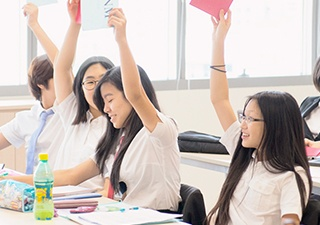
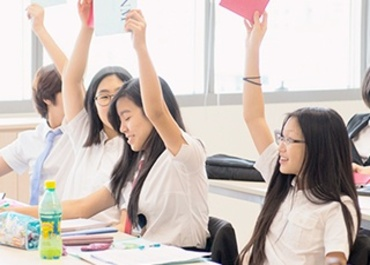
Update 4.24
Updated banner photos

diff --git a/events.html b/events.html
@@ -4,24 +4,24 @@
         <!-- Required meta tags -->
         <meta charset="utf-8">
         <meta name="viewport" content="width=device-width, initial-scale=1">
-    
+
         <!-- Favicon -->
         <link rel="shortcut icon" href="assets/favicon.ico" type="image/x-icon">
-    
+
         <!-- Assistant Font -->
         <link rel="preconnect" href="https://fonts.googleapis.com">
         <link rel="preconnect" href="https://fonts.gstatic.com" crossorigin>
         <link href="https://fonts.googleapis.com/css2?family=Assistant:wght@200;300;400;500;600;700;800&display=swap" rel="stylesheet">
-    
+
         <!-- Awesome Font -->
         <link rel="stylesheet" href="https://cdnjs.cloudflare.com/ajax/libs/font-awesome/5.15.4/css/all.min.css">
-    
+
         <!-- Bootstrap icons-->
         <link href="https://cdn.jsdelivr.net/npm/bootstrap-icons@1.5.0/font/bootstrap-icons.css" rel="stylesheet"/>
-    
+
         <!-- Bootstrap CSS -->
-        <link href="https://cdn.jsdelivr.net/npm/bootstrap@5.1.3/dist/css/bootstrap.min.css" rel="stylesheet" integrity="sha384-1BmE4kWBq78iYhFldvKuhfTAU6auU8tT94WrHftjDbrCEXSU1oBoqyl2QvZ6jIW3" crossorigin="anonymous">    
-        
+        <link href="https://cdn.jsdelivr.net/npm/bootstrap@5.1.3/dist/css/bootstrap.min.css" rel="stylesheet" integrity="sha384-1BmE4kWBq78iYhFldvKuhfTAU6auU8tT94WrHftjDbrCEXSU1oBoqyl2QvZ6jIW3" crossorigin="anonymous">
+
         <!-- placeholder -->
         <style>
             .bd-placeholder-img {
@@ -31,19 +31,19 @@
               -moz-user-select: none;
               user-select: none;
             }
-      
+
             @media (min-width: 768px) {
               .bd-placeholder-img-lg {
                 font-size: 3.5rem;
               }
             }
         </style>
-      
-    
+
+
         <!-- Custom CSS -->
         <link href="css/style.css" rel="stylesheet">
-    
-    
+
+
         <title>Smart Tuition</title>
     </head>
     <body class="d-flex flex-column">
@@ -54,7 +54,7 @@
                 <button class="navbar-toggler" type="button" data-bs-toggle="collapse" data-bs-target="#navbarSupportedContent" aria-controls="navbarSupportedContent" aria-expanded="false" aria-label="Toggle navigation">
                   <span class="navbar-toggler-icon"></span>
                 </button>
-          
+
                 <div class="collapse navbar-collapse" id="navbarSupportedContent">
                   <ul class="navbar-nav ms-auto">
                     <li class="nav-item active">
@@ -93,7 +93,7 @@
             <!-- Header-->
             <header>
                 <div class="justify-content-center">
-                    <img src="assets/banner.jpg" class="d-block w-100" alt="...">
+                    <img src="assets/events-banner.jpg" class="d-block w-100" alt="...">
                 </div>
                 <div class="center-container">
                     <h1 class="display-5 fw-bolder mb-2">Events</h1>
@@ -141,7 +141,7 @@
                 </div>
             </div>
         </main>
-        
+
         <!-- footer -->
         <section>
             <div class="container">

diff --git a/coursefee.html b/coursefee.html
@@ -75,7 +75,7 @@
             <!-- Header-->
             <header>
                 <div class="justify-content-center">
-                    <img src="assets/banner.jpg" class="d-block w-100" alt="...">
+                    <img src="assets/course-fees-banner.jpg" class="d-block w-100" alt="...">
                 </div>
                 <div id="maxwidth">
                     <div class="center-container">
@@ -108,7 +108,7 @@
                     <div class="container px-5 my-5">
                         <div class="coursefee-container">
                             <div class="center-container">
-                                <h1 class="fw-bolder">Preschool</h1>
+                                <h2 class="fw-bolder">Preschool</h2>
                                 <img class="img-fluid rounded mb-5 mb-lg-0" src="assets/Preschool-Fee.jpg" alt="preschool" />
                             </div>
                             <div>
@@ -188,12 +188,11 @@
                     <div class="container px-5 my-5">
                         <div class="coursefee-container gx-5">
                             <div class="center-container">
-                                <h2 class="fw-bolder">Junior College</h2><br>
-                                <p>Equipd your child with the knowledge to excelt
+                                <h2 class="fw-bolder">Junior College</h2>
                                 <img class="img-fluid rounded mb-5 mb-lg-0" src="assets/Junior-College-Fee.jpg" alt="preschool" /></div>
                             <div>
                                 <div class="center-adjust">
-                                    <p><b>Course Fee</b></p>
+                                    <h3 style="margin-block-end:0.5em;">Course fees for J1 - J2 Programmes</h3>
                                     <p>Per Lesson - Physical: <del>$135 - $141</del> <b style="color: red;">&nbsp $115 - $121</b></p>
                                     <p>Weekday - Physical (per month): <del>$540</del> <b style="color: red;">&nbsp $490</b></p>
                                     <p>Weekend - Physical (per month): <del>$560</del> <b style="color: red;">&nbsp $510</b></p>

diff --git a/achievement.html b/achievement.html
@@ -74,7 +74,7 @@
           <!-- Header-->
           <header>
               <div class="justify-content-center">
-                  <img src="assets/banner.jpg" class="d-block w-100" alt="...">
+                  <img src="assets/achievement-banner.jpg" class="d-block w-100" alt="...">
               </div>
 
           </header>
